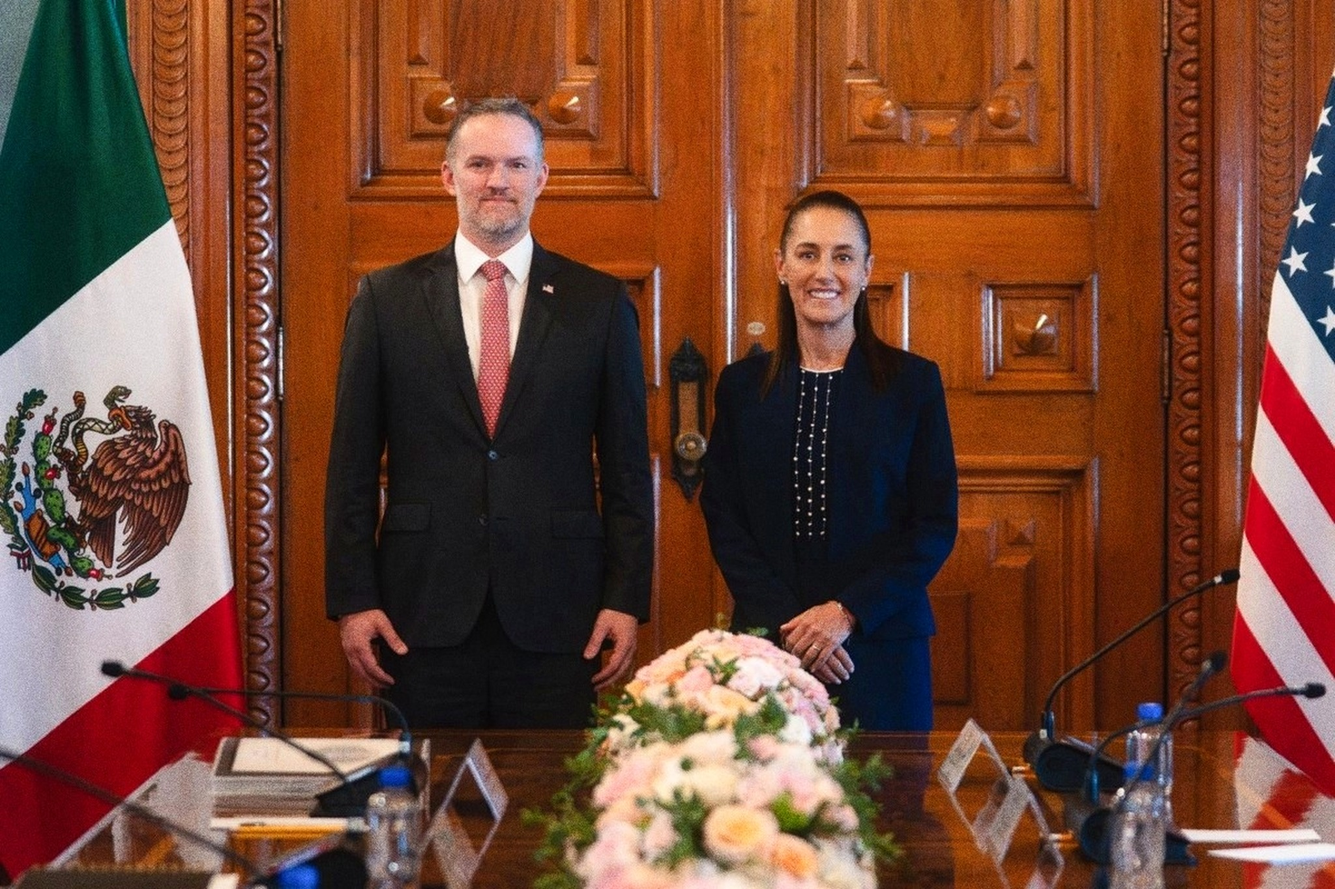
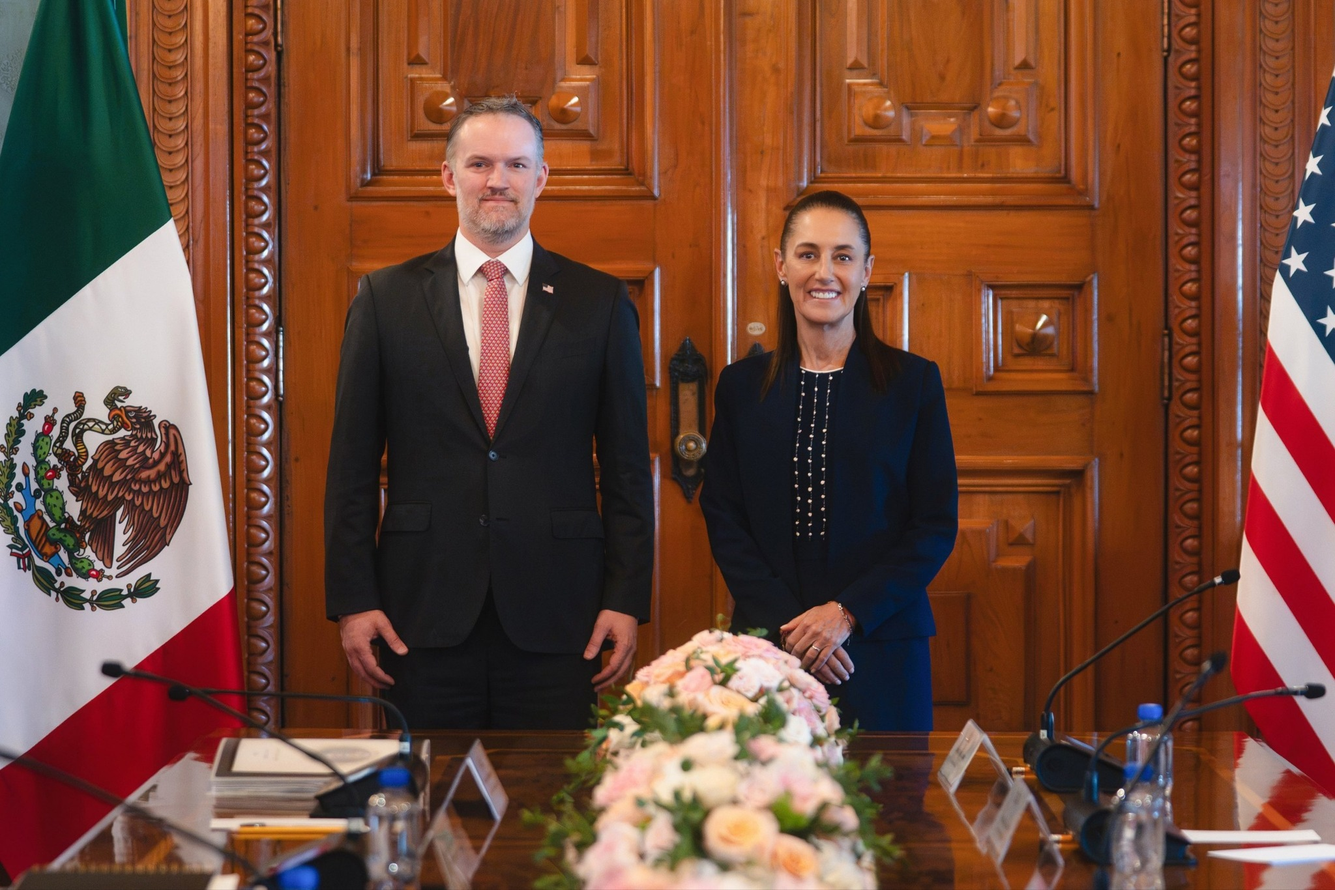
Replace featured with higher-res original (2560x1707)

diff --git a/translations/2026-07-23-greer-tmec-review/article.html b/translations/2026-07-23-greer-tmec-review/article.html
@@ -1,4 +1,4 @@
-<!-- wp:image {"id":18328,"sizeSlug":"large"} -->
+<!-- wp:image {"id":18332,"sizeSlug":"large"} -->
 <figure class="wp-block-image size-large"><img src="https://mexicosolidarity.com/wp-content/uploads/2026/07/2026-07-23-greer-tmec-review-large.jpg" alt="President Claudia Sheinbaum and U.S. Trade Representative Jamieson Greer stand between the Mexican and U.S. flags at Palacio Nacional"/><figcaption class="wp-element-caption">Photo: @Claudiashein</figcaption></figure>
 <!-- /wp:image -->
 
